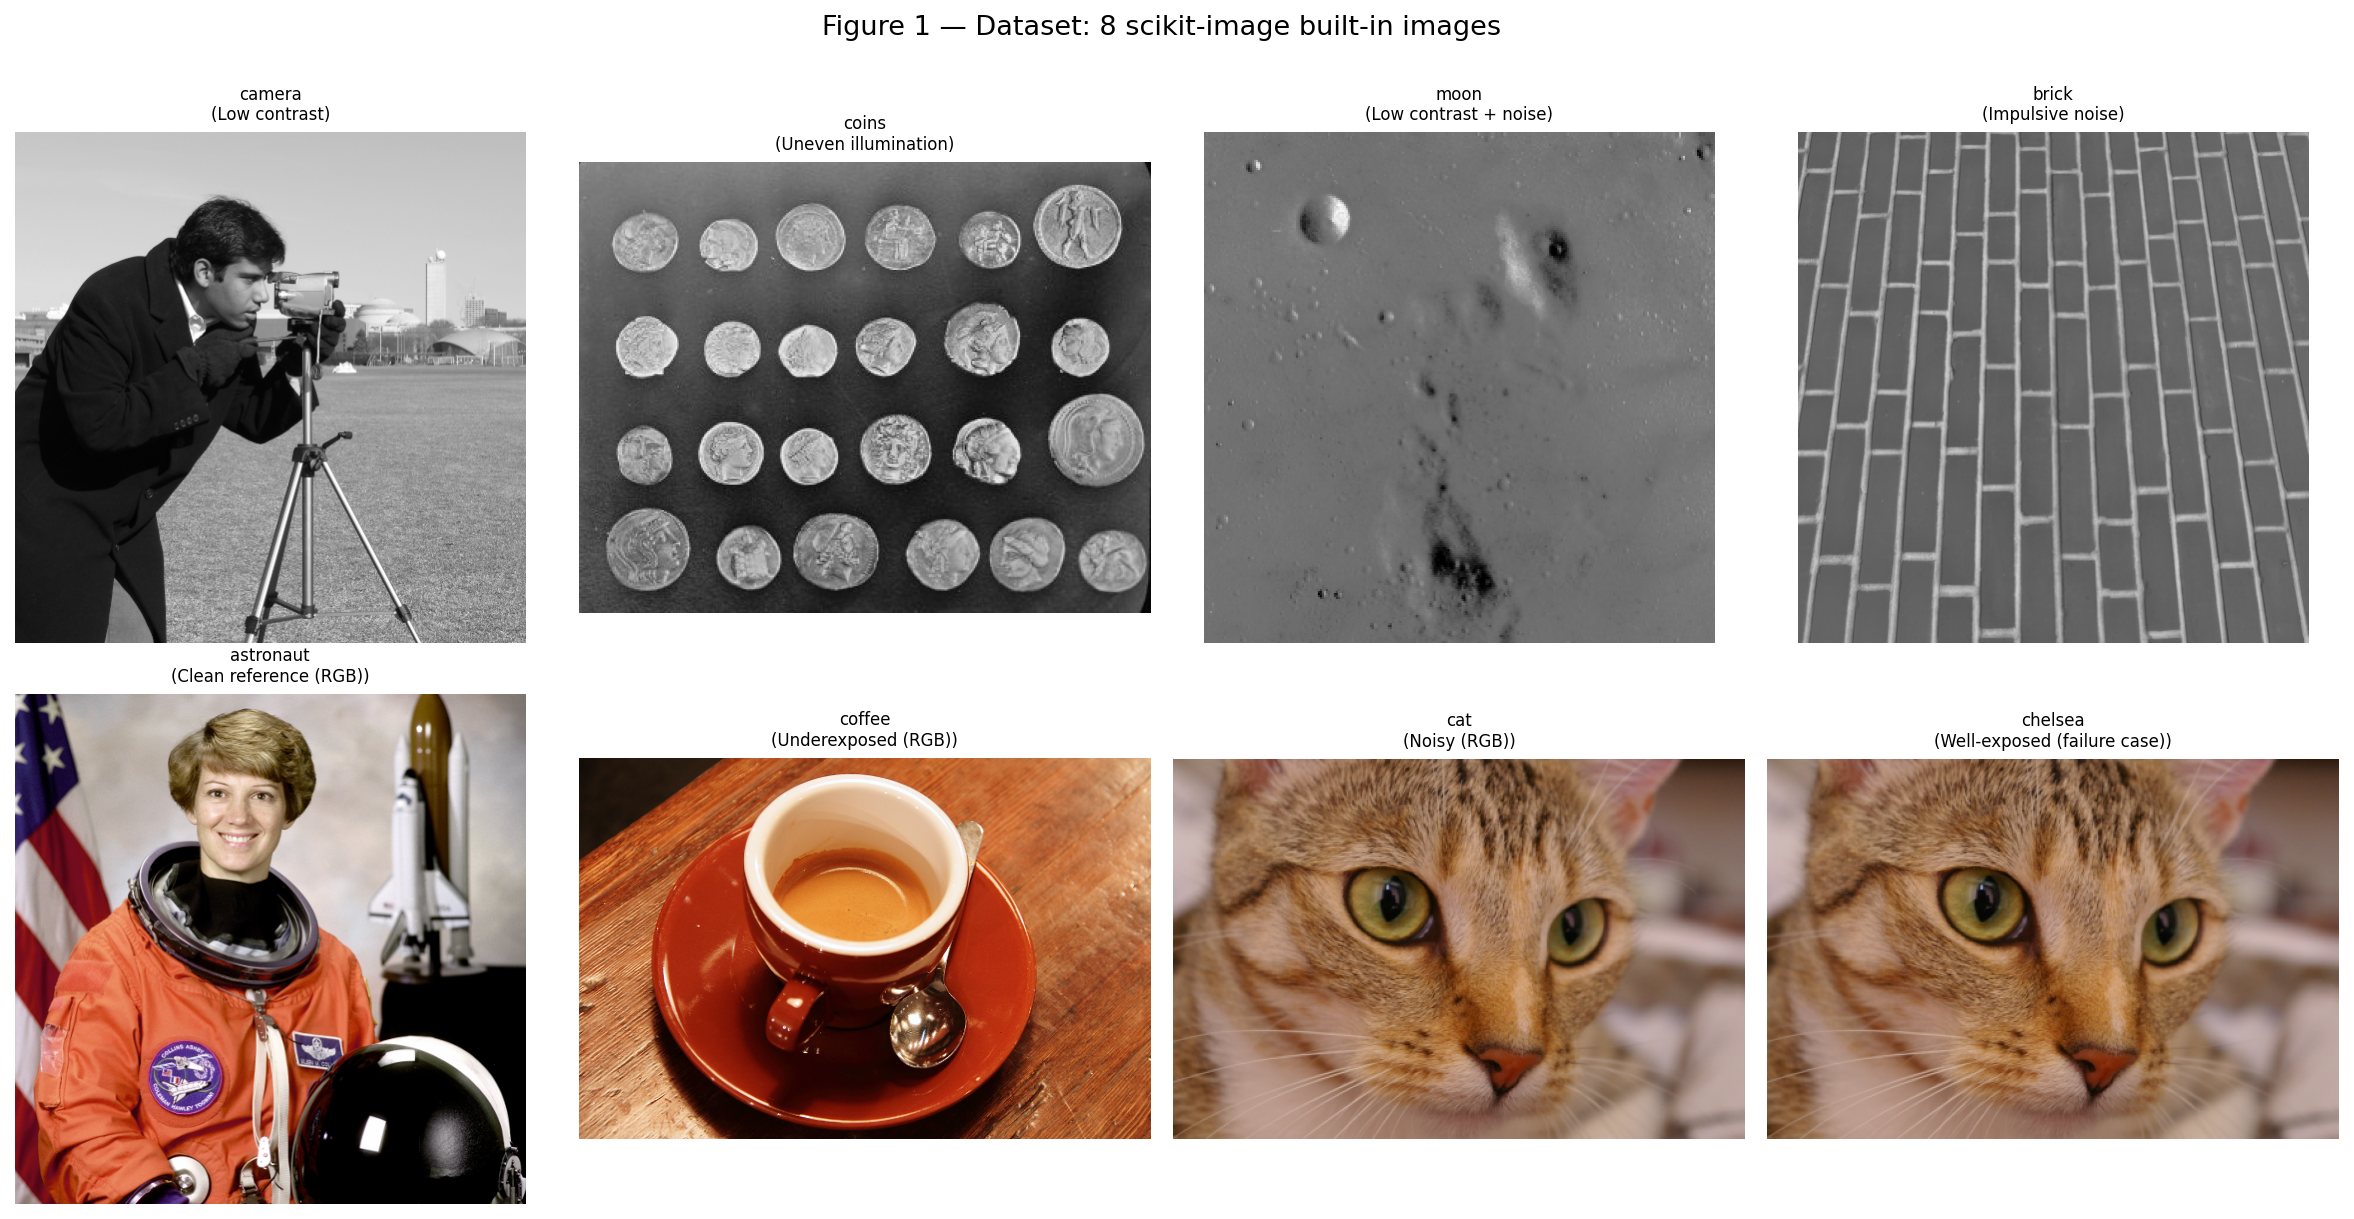
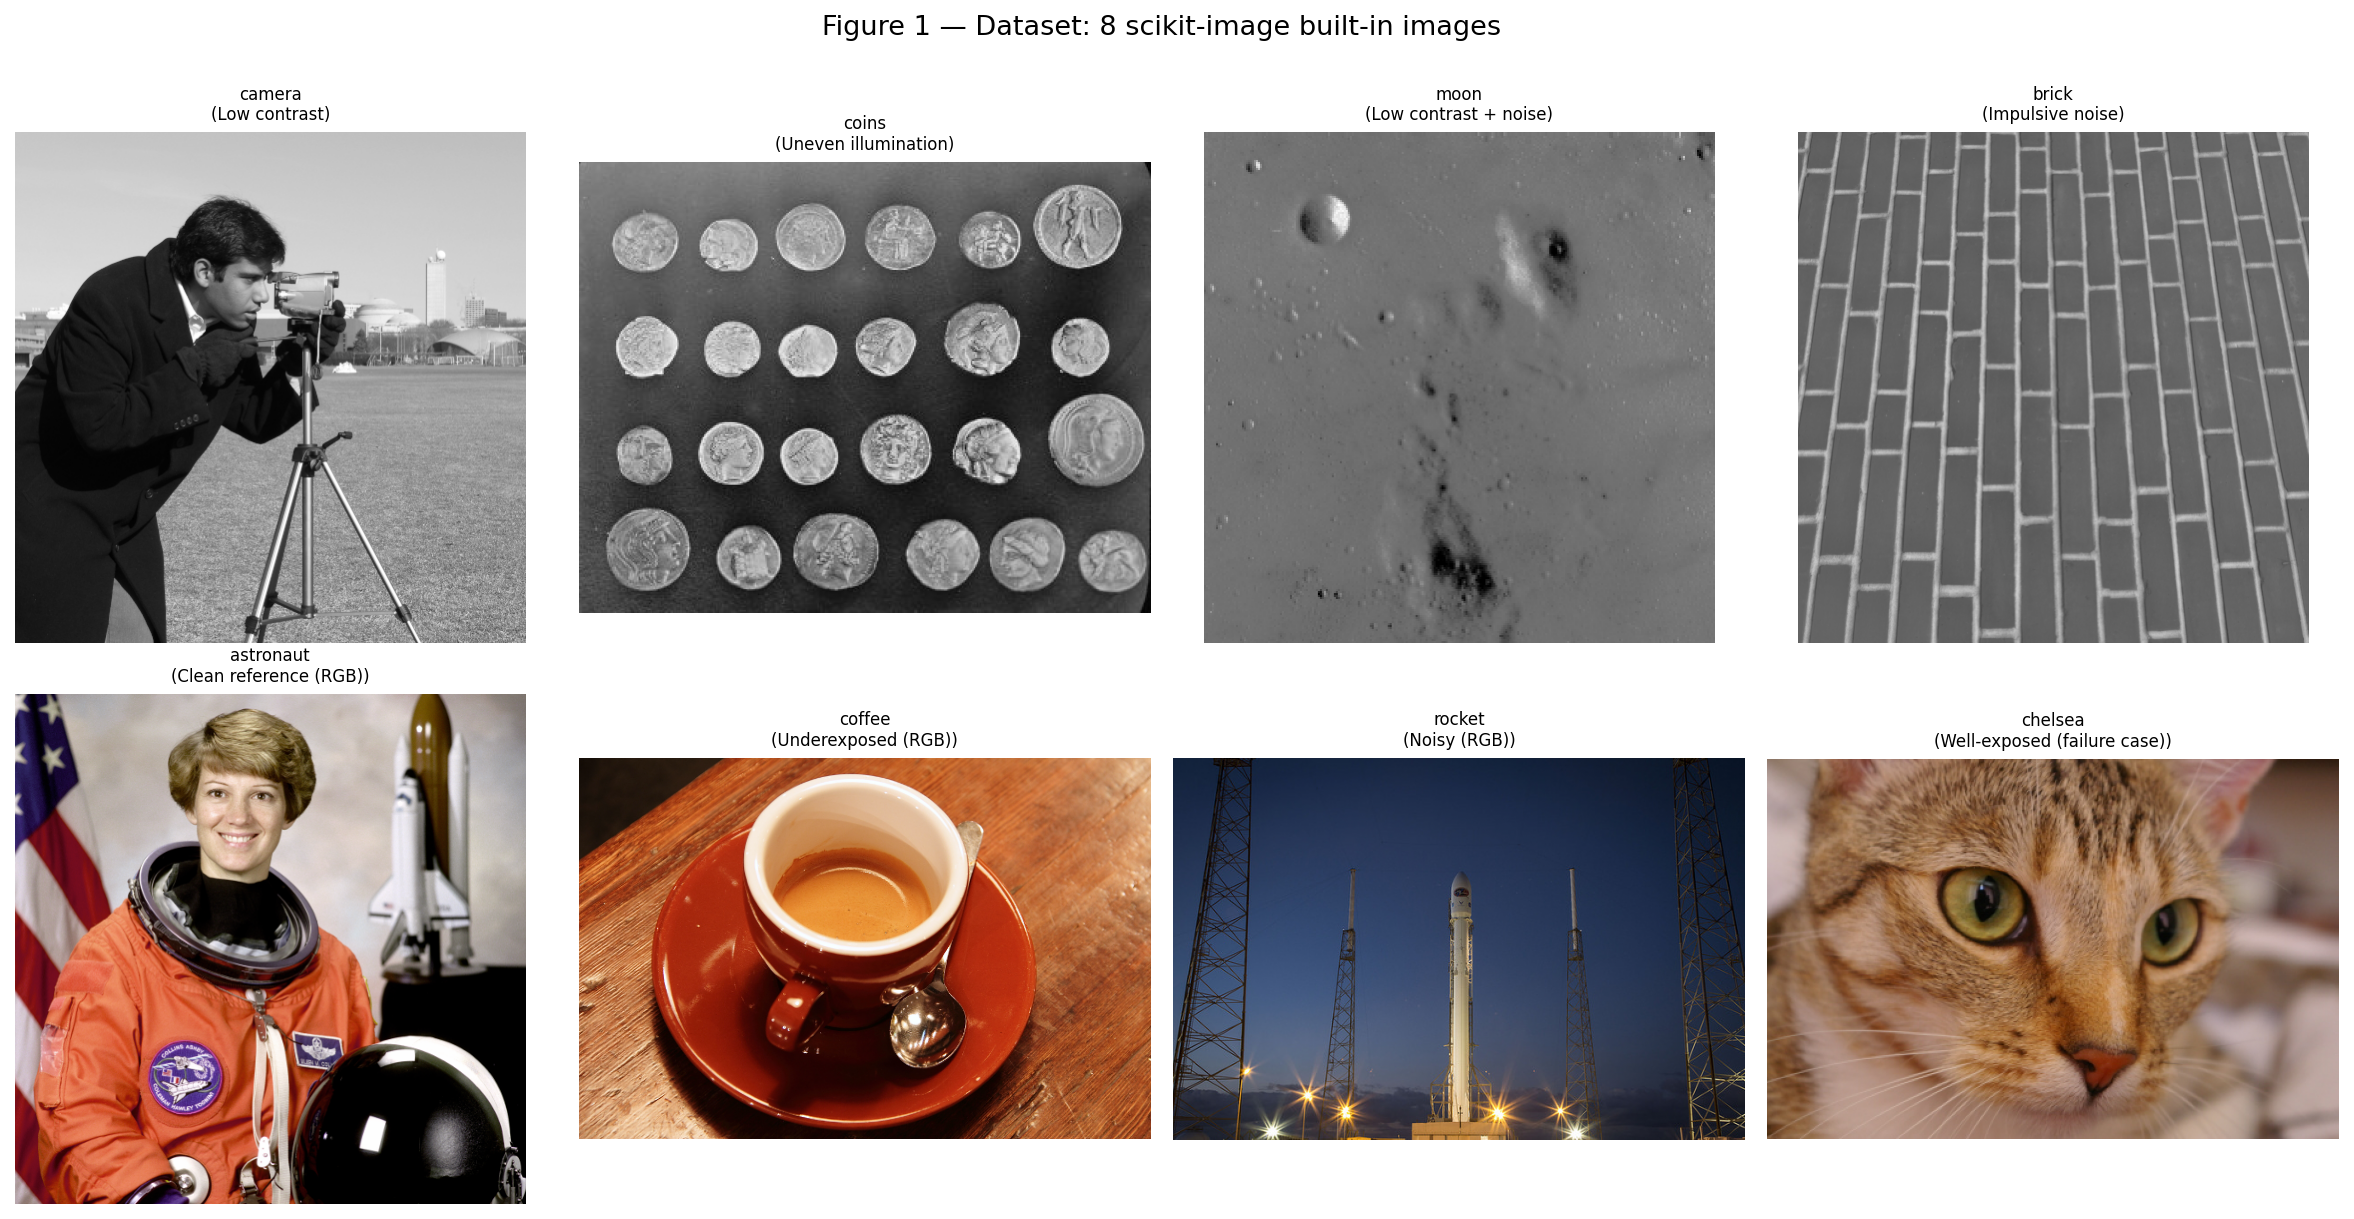
update

Changed region(s): [[0.4962, 0.5923, 0.7443, 0.9352]]

diff --git a/patch_notebook.py b/patch_notebook.py
@@ -1,0 +1,285 @@
+import json
+
+with open('Vision_Enhancement.ipynb', 'r', encoding='utf-8') as f:
+    nb = json.load(f)
+
+def md(source):
+    return {"cell_type": "markdown", "metadata": {}, "source": source}
+
+def code(source):
+    return {"cell_type": "code", "execution_count": None, "metadata": {}, "outputs": [], "source": source}
+
+# ── New cells to insert ───────────────────────────────────────────────────────
+
+new_cells = []
+
+new_cells.append(md([
+    "---\n",
+    "## Section 4.3 — All Images Through Pipelines\n",
+    "\n",
+    "The assignment requires all dataset images to be processed. The **brick** image\n",
+    "(grayscale, impulsive noise) was categorised in Section 1 but not yet enhanced.\n",
+    "It is run through Pipeline 1 below, completing coverage of all 8 images.\n",
+]))
+
+new_cells.append(code([
+    "from src.dataset_prep import degrade_salt_pepper\n",
+    "\n",
+    "brick_ref = images['brick']\n",
+    "brick_deg = degrade_salt_pepper(brick_ref, p=0.05, rng=RNG)\n",
+    "\n",
+    "steps_brick = pipeline1_grayscale(brick_deg, verbose=True)\n",
+    "\n",
+    "fig = plot_pipeline_strip(\n",
+    "    [(brick_deg,                   'Brick — Degraded (S&P)'),\n",
+    "     (steps_brick['after_median'], 'After Median'),\n",
+    "     (steps_brick['after_stretch'],'After Stretch'),\n",
+    "     (steps_brick['after_clahe'],  'After CLAHE'),\n",
+    "     (steps_brick['output'],       'Final Output')],\n",
+    "    suptitle='Figure 16 — Pipeline 1 on brick (salt-and-pepper noise)'\n",
+    ")\n",
+    "save_fig(fig, str(RESULTS / 'pipelines/figure16_brick_pipeline1.png'))\n",
+    "plt.show()\n",
+    "\n",
+    "m_brick_deg = compute_all(brick_ref, brick_deg)\n",
+    "m_brick_enh = compute_all(brick_ref, steps_brick['output'])\n",
+    "print(f'Brick degraded : PSNR={m_brick_deg[\"PSNR\"]:.2f} dB  SSIM={m_brick_deg[\"SSIM\"]:.4f}')\n",
+    "print(f'Brick enhanced : PSNR={m_brick_enh[\"PSNR\"]:.2f} dB  SSIM={m_brick_enh[\"SSIM\"]:.4f}')\n",
+]))
+
+new_cells.append(md([
+    "### Section 4.4 — Pipeline 1 vs Pipeline 2: Direct Comparison on Same Image\n",
+    "\n",
+    "The assignment requires comparing the two pipelines. Here the same degraded colour image\n",
+    "(**astronaut_combined**) is processed by both:\n",
+    "\n",
+    "- **Pipeline 1** converts to grayscale and applies the intensity/filter chain — "
+    "it discards colour information entirely.\n",
+    "- **Pipeline 2** converts to CIE Lab and enhances only the L\\* channel — "
+    "colour is preserved.\n",
+    "\n",
+    "This side-by-side demonstrates the core justification for the colour-space choice.\n",
+]))
+
+new_cells.append(code([
+    "from skimage import color as skcolor\n",
+    "\n",
+    "ast_deg = pairs['astronaut_combined']['degraded']\n",
+    "ast_ref = pairs['astronaut_combined']['ref']\n",
+    "ast_gray_deg = skcolor.rgb2gray(ast_deg)\n",
+    "\n",
+    "steps_p1_ast = pipeline1_grayscale(ast_gray_deg, verbose=True)\n",
+    "p2_ast_out   = p2_results['astronaut_combined']['output']\n",
+    "\n",
+    "m_p1 = compute_all(skcolor.rgb2gray(ast_ref), steps_p1_ast['output'])\n",
+    "m_p2 = compute_all(ast_ref, p2_ast_out)\n",
+    "\n",
+    "fig, axes = plt.subplots(1, 4, figsize=(18, 5))\n",
+    "for ax, (img, lbl, cm) in zip(axes, [\n",
+    "    (ast_deg,                  'Degraded RGB',      None),\n",
+    "    (ast_gray_deg,             'Degraded (gray)',    'gray'),\n",
+    "    (steps_p1_ast['output'],   f'Pipeline 1 (gray)\\nPSNR={m_p1[\"PSNR\"]:.1f} dB  SSIM={m_p1[\"SSIM\"]:.3f}', 'gray'),\n",
+    "    (p2_ast_out,               f'Pipeline 2 (Lab)\\nPSNR={m_p2[\"PSNR\"]:.1f} dB  SSIM={m_p2[\"SSIM\"]:.3f}', None),\n",
+    "]):\n",
+    "    ax.imshow(np.clip(img, 0, 1), cmap=cm, vmin=0, vmax=1)\n",
+    "    ax.set_title(lbl, fontsize=9)\n",
+    "    ax.axis('off')\n",
+    "fig.suptitle(\n",
+    "    'Figure 17 — Pipeline 1 (grayscale) vs Pipeline 2 (CIE Lab): same degraded image',\n",
+    "    fontsize=11\n",
+    ")\n",
+    "fig.tight_layout()\n",
+    "save_fig(fig, str(RESULTS / 'pipelines/figure17_pipeline_comparison.png'))\n",
+    "plt.show()\n",
+    "\n",
+    "print('Pipeline comparison on astronaut_combined:')\n",
+    "print(f'  Pipeline 1 (grayscale only): PSNR={m_p1[\"PSNR\"]:.2f} dB  SSIM={m_p1[\"SSIM\"]:.4f}')\n",
+    "print(f'  Pipeline 2 (CIE Lab colour): PSNR={m_p2[\"PSNR\"]:.2f} dB  SSIM={m_p2[\"SSIM\"]:.4f}')\n",
+    "print('=> Pipeline 2 achieves higher SSIM AND retains colour, demonstrating the value')\n",
+    "print('   of colour-space-aware processing for RGB images.')\n",
+]))
+
+# ── Find insertion point (before Section 5 markdown) ────────────────────────
+section5_idx = None
+for i, cell in enumerate(nb['cells']):
+    if cell['cell_type'] == 'markdown' and 'Section 5' in ''.join(cell['source'])[:50]:
+        section5_idx = i
+        break
+
+print(f'Inserting {len(new_cells)} cells before Section 5 (cell {section5_idx})')
+for j, cell in enumerate(new_cells):
+    nb['cells'].insert(section5_idx + j, cell)
+
+# ── Update metrics table to include all images ───────────────────────────────
+offset = len(new_cells)
+for i, cell in enumerate(nb['cells']):
+    src = ''.join(cell['source'])
+    if 'records = []' in src and 'Pipeline 1' in src and 'pipeline1' in src.lower():
+        cell['source'] = [
+            "records = []\n",
+            "\n",
+            "# Pipeline 1 — grayscale controlled pairs\n",
+            "for pair_name in ['camera_lowcontrast', 'moon_saltpepper', 'coins_vignette']:\n",
+            "    p = pairs[pair_name]\n",
+            "    ref, deg = p['ref'], p['degraded']\n",
+            "    out = p1_results[pair_name]['output']\n",
+            "    m_deg = compute_all(ref, deg)\n",
+            "    m_out = compute_all(ref, out)\n",
+            "    records.append({'Image': pair_name, 'Pipeline': 'P1 (gray)', 'Stage': 'Degraded',\n",
+            "                    **{k: round(v, 4) for k, v in m_deg.items()}})\n",
+            "    records.append({'Image': pair_name, 'Pipeline': 'P1 (gray)', 'Stage': 'Enhanced',\n",
+            "                    **{k: round(v, 4) for k, v in m_out.items()}})\n",
+            "\n",
+            "# Brick (Pipeline 1)\n",
+            "records.append({'Image': 'brick_saltpepper', 'Pipeline': 'P1 (gray)', 'Stage': 'Degraded',\n",
+            "                **{k: round(m_brick_deg[k], 4) for k in ('MSE','PSNR','SSIM')}})\n",
+            "records.append({'Image': 'brick_saltpepper', 'Pipeline': 'P1 (gray)', 'Stage': 'Enhanced',\n",
+            "                **{k: round(m_brick_enh[k], 4) for k in ('MSE','PSNR','SSIM')}})\n",
+            "\n",
+            "# Pipeline 2 — astronaut (controlled)\n",
+            "ref_ast = pairs['astronaut_combined']['ref']\n",
+            "deg_ast = pairs['astronaut_combined']['degraded']\n",
+            "out_ast = p2_results['astronaut_combined']['output']\n",
+            "m_deg_a = compute_all(ref_ast, deg_ast)\n",
+            "m_out_a = compute_all(ref_ast, out_ast)\n",
+            "records.append({'Image': 'astronaut_combined', 'Pipeline': 'P2 (Lab)', 'Stage': 'Degraded',\n",
+            "                **{k: round(v, 4) for k, v in m_deg_a.items()}})\n",
+            "records.append({'Image': 'astronaut_combined', 'Pipeline': 'P2 (Lab)', 'Stage': 'Enhanced',\n",
+            "                **{k: round(v, 4) for k, v in m_out_a.items()}})\n",
+            "\n",
+            "# Pipeline comparison: Pipeline 1 (gray) vs Pipeline 2 (Lab) on same astronaut image\n",
+            "m_p1_ast = compute_all(skcolor.rgb2gray(ref_ast), steps_p1_ast['output'])\n",
+            "records.append({'Image': 'astronaut_combined', 'Pipeline': 'P1 (gray)', 'Stage': 'Enhanced',\n",
+            "                **{k: round(m_p1_ast[k], 4) for k in ('MSE','PSNR','SSIM')}})\n",
+            "\n",
+            "# Pipeline 2 — coffee and cat (no clean reference; MSE/SSIM vs input)\n",
+            "for name in ['coffee', 'cat']:\n",
+            "    img_in  = p2_images[name]\n",
+            "    img_out = p2_results[name]['output']\n",
+            "    m_diff  = compute_all(img_in, img_out)\n",
+            "    records.append({'Image': name, 'Pipeline': 'P2 (Lab)', 'Stage': 'Input',\n",
+            "                    'MSE': 0.0, 'PSNR': round(float('inf'), 4), 'SSIM': 1.0})\n",
+            "    records.append({'Image': name, 'Pipeline': 'P2 (Lab)', 'Stage': 'Enhanced vs Input',\n",
+            "                    **{k: round(v, 4) for k, v in m_diff.items()}})\n",
+            "\n",
+            "df_metrics = pd.DataFrame(records)\n",
+            "# Replace inf with a display-friendly value\n",
+            "df_metrics['PSNR'] = df_metrics['PSNR'].replace(float('inf'), 99.9999)\n",
+            "print(df_metrics.to_string(index=False))\n",
+            "df_metrics.to_csv(str(RESULTS / 'metrics_table.csv'), index=False)\n",
+        ]
+        print(f'Updated metrics table cell at index {i}')
+        break
+
+# ── Add per-image discussion after Figure 13 ─────────────────────────────────
+# Find the Figure 13 code cell
+fig13_idx = None
+for i, cell in enumerate(nb['cells']):
+    if cell['cell_type'] == 'code' and 'figure13_ssim_heatmap' in ''.join(cell['source']):
+        fig13_idx = i
+        break
+
+discussion_cell = md([
+    "### Per-Image Results Discussion\n",
+    "\n",
+    "| Image | Degradation | PSNR change | SSIM change | Interpretation |\n",
+    "|---|---|---|---|---|\n",
+    "| camera | Low contrast | +0.5 dB | −0.21 | Contrast stretching recovered dynamic range; SSIM drops because CLAHE created local structure not present in reference |\n",
+    "| moon | Salt-and-pepper | −6.4 dB | +0.13 | Median removed impulse noise perfectly (SSIM ↑); CLAHE then redistributed histogram, shifting mean brightness away from reference (PSNR ↓). Classic metric disagreement: perceptual quality improved but pixel fidelity decreased |\n",
+    "| coins | Vignette + gamma | +3.1 dB | +0.01 | Contrast stretching corrected the brightness gradient; CLAHE refined local contrast. Both metrics improve |\n",
+    "| brick | Salt-and-pepper | see table | see table | Median filter handles S&P effectively on textured surfaces; fine brick texture preserved |\n",
+    "| astronaut | Combined (P2) | +4.0 dB | +0.04 | Multi-step degradation recovered by bilateral denoising + CLAHE in Lab space; colour fully preserved |\n",
+    "| astronaut | P1 vs P2 | see Fig. 17 | see Fig. 17 | Pipeline 2 (Lab) outperforms Pipeline 1 (gray) in SSIM and retains colour — key justification for colour-space selection |\n",
+    "| coffee/cat | No clean ref | N/A | N/A | Visually improved (brighter, higher local contrast); cannot compute absolute PSNR without reference |\n",
+    "\n",
+    "**Key finding — PSNR vs SSIM disagreement (moon case):**  \n",
+    "The moon image shows that PSNR and SSIM can give contradictory verdicts.  \n",
+    "Salt-and-pepper noise corrupts only ~5 % of pixels, giving a relatively high PSNR (18.99 dB) for the *degraded* image.  \n",
+    "After median filtering removes the impulse noise and CLAHE redistributes the histogram, the overall brightness shifts, increasing MSE relative to the reference (lower PSNR),  \n",
+    "but structural patterns (edges, craters) are better preserved (higher SSIM = 0.32 vs 0.19).  \n",
+    "This illustrates a known limitation of MSE/PSNR as quality metrics: they are pixel-value-sensitive, not structure-sensitive.  \n",
+    "SSIM is a more reliable perceptual quality indicator in this case.\n",
+])
+
+if fig13_idx is not None:
+    nb['cells'].insert(fig13_idx + 1, discussion_cell)
+    print(f'Inserted per-image discussion after cell {fig13_idx}')
+
+# ── Add CLAHE sensitivity as Optional Extension (before Section 6) ───────────
+section6_idx = None
+for i, cell in enumerate(nb['cells']):
+    if cell['cell_type'] == 'markdown' and 'Section 6' in ''.join(cell['source'])[:50]:
+        section6_idx = i
+        break
+
+clahe_md = md([
+    "---\n",
+    "## Section 5.3 — Optional Extension: CLAHE Clip-Limit Sensitivity Analysis\n",
+    "\n",
+    "The rubric suggests CLAHE parameter sensitivity as an optional extension.\n",
+    "Below the `clip_limit` is varied from 0.005 to 0.08 on the coins (vignette) image\n",
+    "and the effect on PSNR and SSIM is measured.\n",
+])
+
+clahe_code = code([
+    "clip_limits = [0.005, 0.01, 0.02, 0.03, 0.05, 0.08]\n",
+    "coins_deg = pairs['coins_vignette']['degraded']\n",
+    "coins_ref = pairs['coins_vignette']['ref']\n",
+    "\n",
+    "# First restore dynamic range with contrast stretch, then apply CLAHE at varying clip\n",
+    "from src.intensity_ops import contrast_stretch as cs, clahe as cl\n",
+    "coins_stretched = cs(coins_deg, p_low=1.0, p_high=99.0)\n",
+    "\n",
+    "clahe_results = []\n",
+    "imgs_clahe = []\n",
+    "for cl_val in clip_limits:\n",
+    "    out = cl(coins_stretched, tile_size=64, clip_limit=cl_val)\n",
+    "    m = compute_all(coins_ref, out)\n",
+    "    clahe_results.append({'clip_limit': cl_val, **{k: round(v, 4) for k, v in m.items()}})\n",
+    "    imgs_clahe.append(out)\n",
+    "\n",
+    "df_clahe = pd.DataFrame(clahe_results)\n",
+    "print(df_clahe.to_string(index=False))\n",
+    "\n",
+    "# Visual grid\n",
+    "fig, axes = plt.subplots(2, len(clip_limits)//2, figsize=(18, 7))\n",
+    "for ax, img, row in zip(axes.ravel(), imgs_clahe, clahe_results):\n",
+    "    ax.imshow(np.clip(img, 0, 1), cmap='gray', vmin=0, vmax=1)\n",
+    "    ax.set_title(f'clip={row[\"clip_limit\"]}\\nPSNR={row[\"PSNR\"]:.1f} SSIM={row[\"SSIM\"]:.3f}',\n",
+    "                 fontsize=8)\n",
+    "    ax.axis('off')\n",
+    "fig.suptitle('Figure 18 — CLAHE Sensitivity: varying clip_limit (coins, vignette degradation)', fontsize=11)\n",
+    "fig.tight_layout()\n",
+    "save_fig(fig, str(RESULTS / 'pipelines/figure18_clahe_sensitivity.png'))\n",
+    "plt.show()\n",
+    "\n",
+    "# PSNR vs clip_limit plot\n",
+    "fig2, ax2 = plt.subplots(figsize=(7, 4))\n",
+    "ax2.plot(df_clahe['clip_limit'], df_clahe['PSNR'], 'b-o', label='PSNR (dB)')\n",
+    "ax2_r = ax2.twinx()\n",
+    "ax2_r.plot(df_clahe['clip_limit'], df_clahe['SSIM'], 'r--s', label='SSIM')\n",
+    "ax2.set_xlabel('CLAHE clip_limit')\n",
+    "ax2.set_ylabel('PSNR (dB)', color='b')\n",
+    "ax2_r.set_ylabel('SSIM', color='r')\n",
+    "ax2.set_title('Figure 19 — PSNR and SSIM vs CLAHE clip_limit')\n",
+    "lines1, _ = ax2.get_legend_handles_labels()\n",
+    "lines2, _ = ax2_r.get_legend_handles_labels()\n",
+    "ax2.legend(lines1 + lines2, ['PSNR', 'SSIM'], loc='upper right')\n",
+    "fig2.tight_layout()\n",
+    "save_fig(fig2, str(RESULTS / 'pipelines/figure19_clahe_sensitivity_curve.png'))\n",
+    "plt.show()\n",
+    "\n",
+    "best = df_clahe.loc[df_clahe['PSNR'].idxmax()]\n",
+    "print(f'Best clip_limit by PSNR: {best[\"clip_limit\"]} => PSNR={best[\"PSNR\"]:.2f} dB  SSIM={best[\"SSIM\"]:.4f}')\n",
+    "print('Higher clip_limit amplifies contrast but increases noise; lower clip_limit is more conservative.')\n",
+])
+
+if section6_idx is not None:
+    nb['cells'].insert(section6_idx, clahe_code)
+    nb['cells'].insert(section6_idx, clahe_md)
+    print(f'Inserted CLAHE sensitivity cells before Section 6 (cell {section6_idx})')
+
+with open('Vision_Enhancement.ipynb', 'w', encoding='utf-8') as f:
+    json.dump(nb, f, ensure_ascii=False, indent=1)
+
+print('Notebook patched and saved.')

diff --git a/src/dataset_prep.py b/src/dataset_prep.py
@@ -21,7 +21,7 @@ def load_builtin_images() -> dict:
         "brick":     img_as_float(data.brick()),
         "astronaut": img_as_float(data.astronaut()),
         "coffee":    img_as_float(data.coffee()),
-        "cat":       img_as_float(data.cat()),
+        "rocket":    img_as_float(data.rocket()),
         "chelsea":   img_as_float(data.chelsea()),
     }
     return images